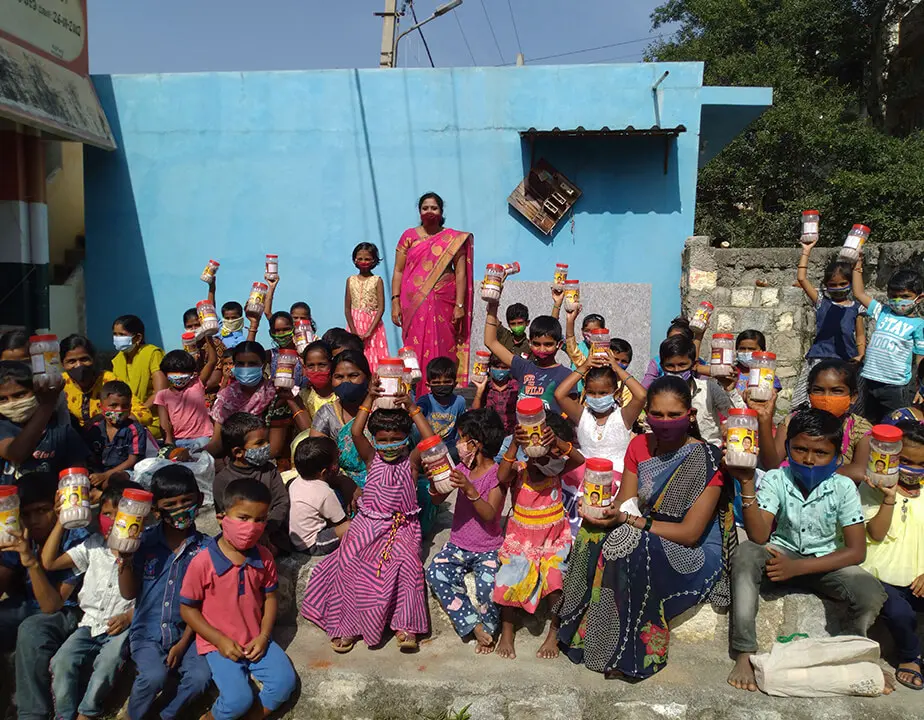
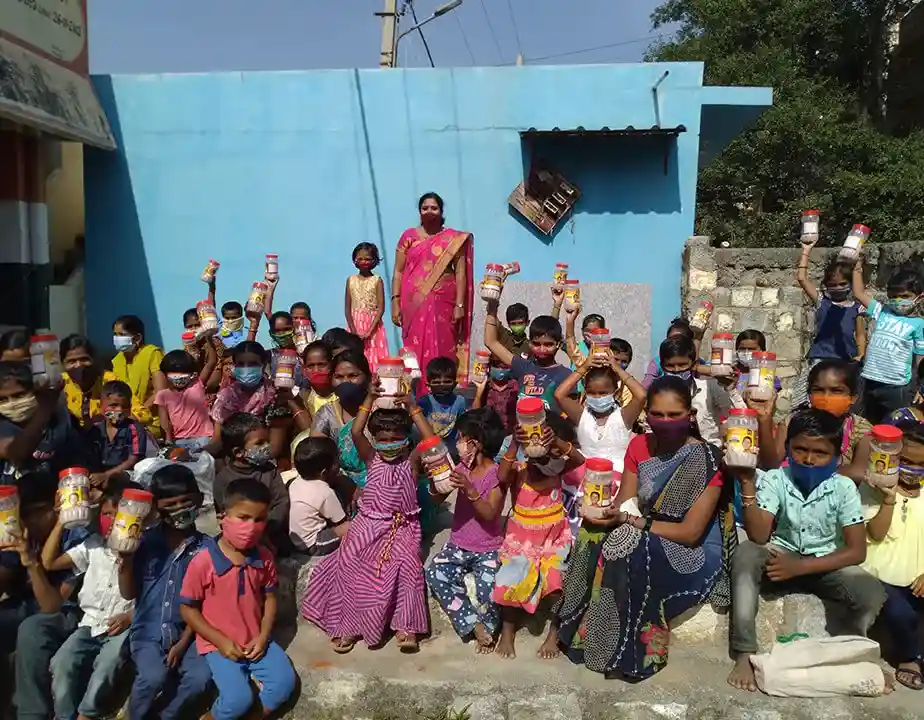
optimized images

diff --git a/pages/index.vue b/pages/index.vue
@@ -303,9 +303,9 @@ export default {
             videoBannerVideo:'',
             dialogFormVisible: false,
             about: [
-                {image:"/images/about/about4.jpg", link:"/about", heading:"Hrudaya Spandana", description:"Hrudaya Spandana unveils the spirit of vital enthusiasm with pure intention, motivation and selfless service."},
+                {image:"/images/about/about4.webp", link:"/about", heading:"Hrudaya Spandana", description:"Hrudaya Spandana unveils the spirit of vital enthusiasm with pure intention, motivation and selfless service."},
                 {image:"/images/about/about6.webp", link:"/about/sai-mayee-trust", heading:"Sai Mayee Trust", description:"Depth of commitment towards extending selfless service with unflinching faith brings out the Divinity in each one of us."},
-                {image:"/images/about/about5.jpg", link:"/about/sai-meru-mathi-trust", heading:"Sri Sai Meru Mathi Trust", description:"The body is the temple of God and the temple is the body of societal consciousness of Divinity."}
+                {image:"/images/about/about5.webp", link:"/about/sai-meru-mathi-trust", heading:"Sri Sai Meru Mathi Trust", description:"The body is the temple of God and the temple is the body of societal consciousness of Divinity."}
             ],
             events: [
                 {image:"/images/swamy2.jpg", title:"Manava Seva", upcomingLink:"/manava-seva/upcoming-events", pastLink:"/manava-seva/past-events"},
